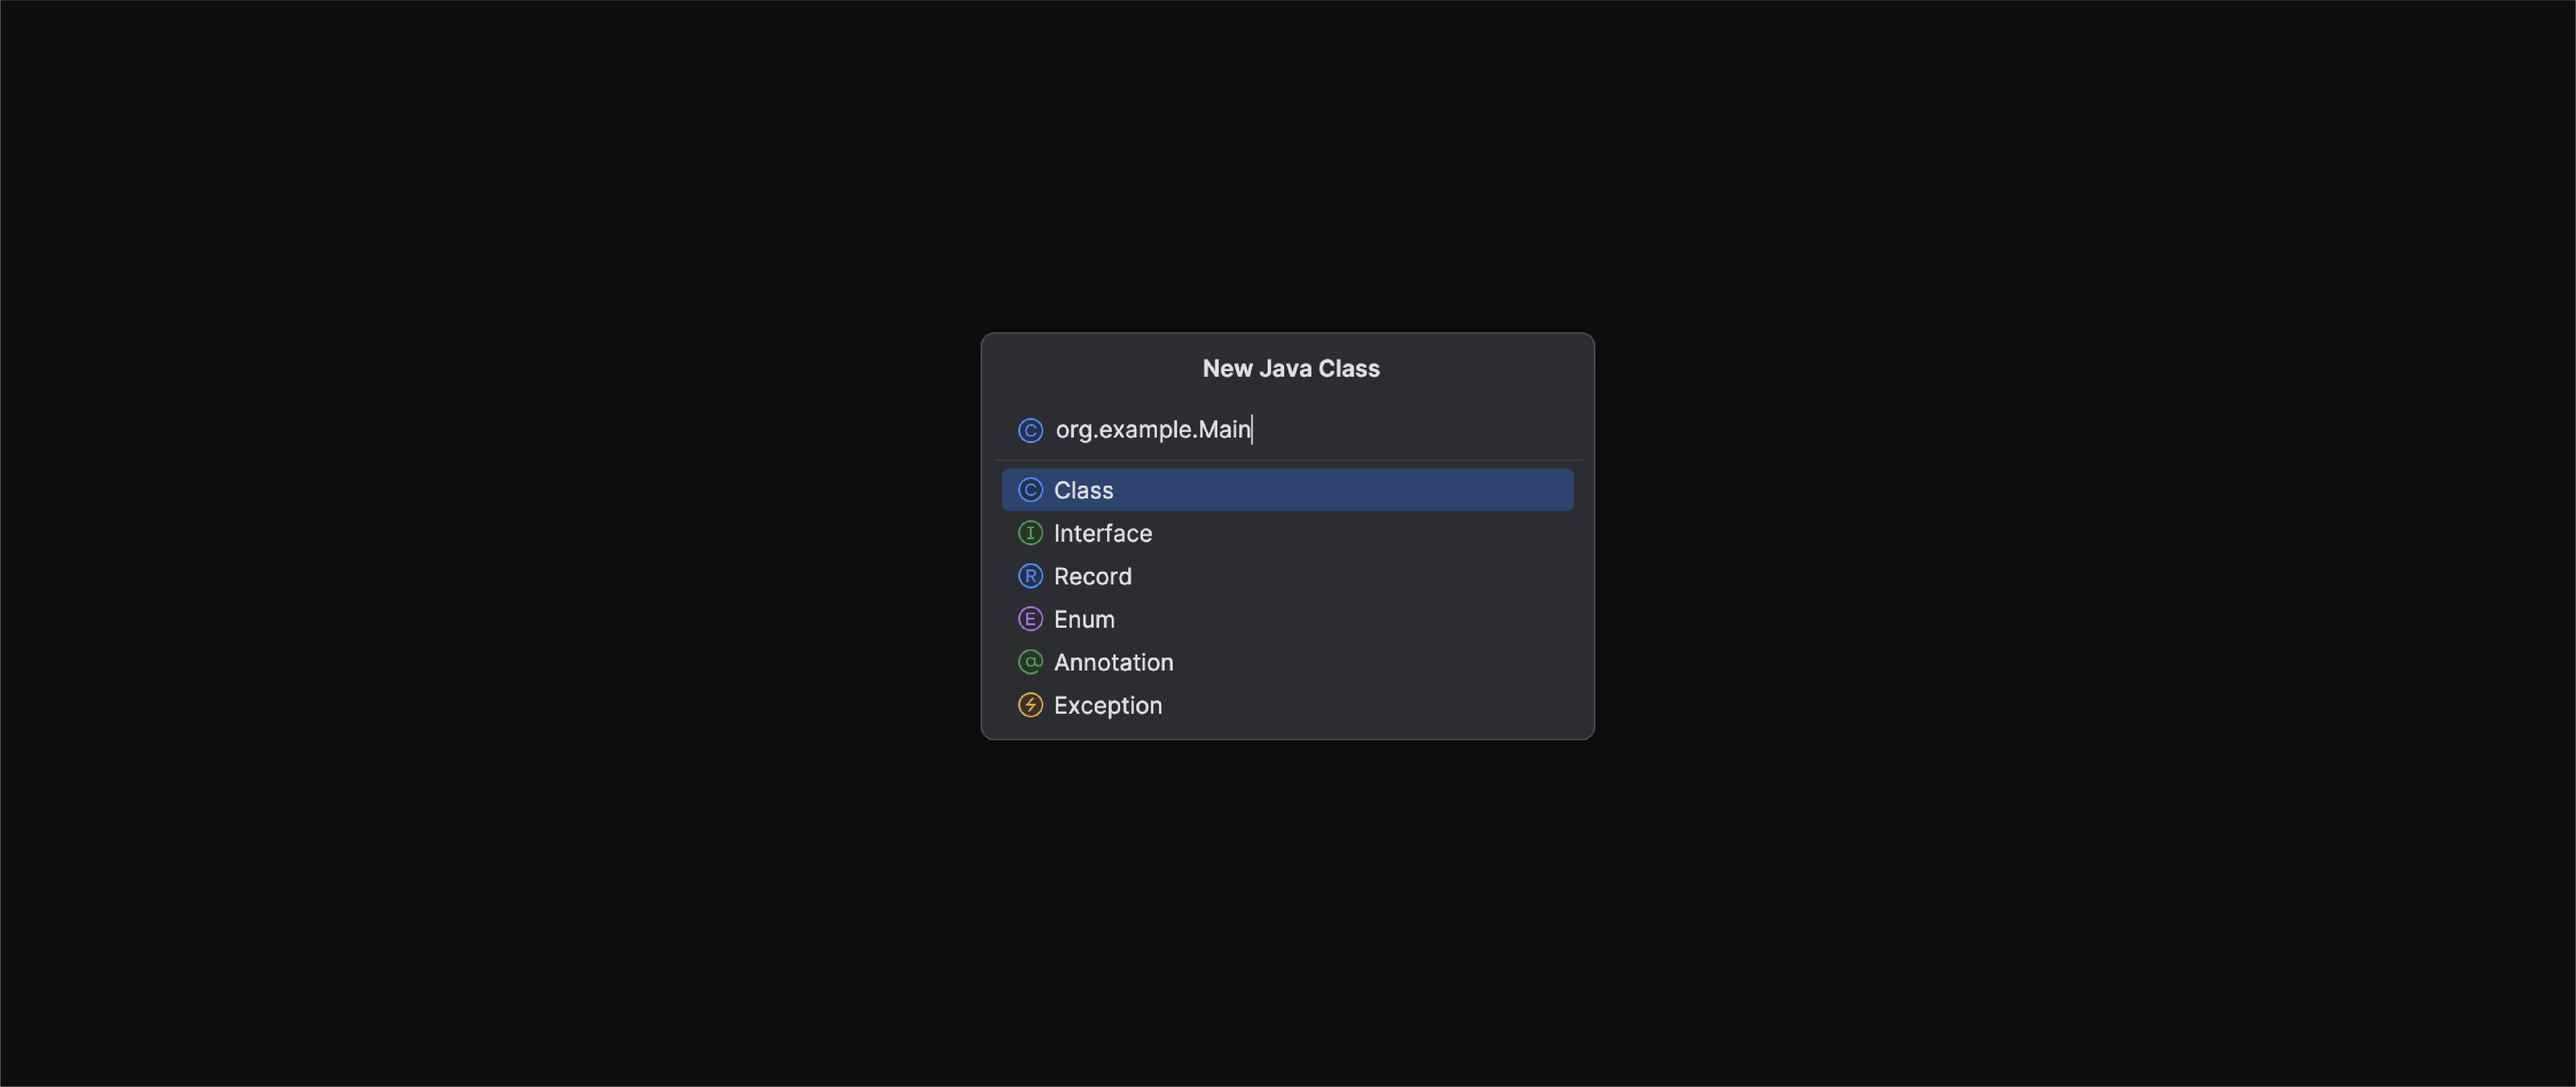
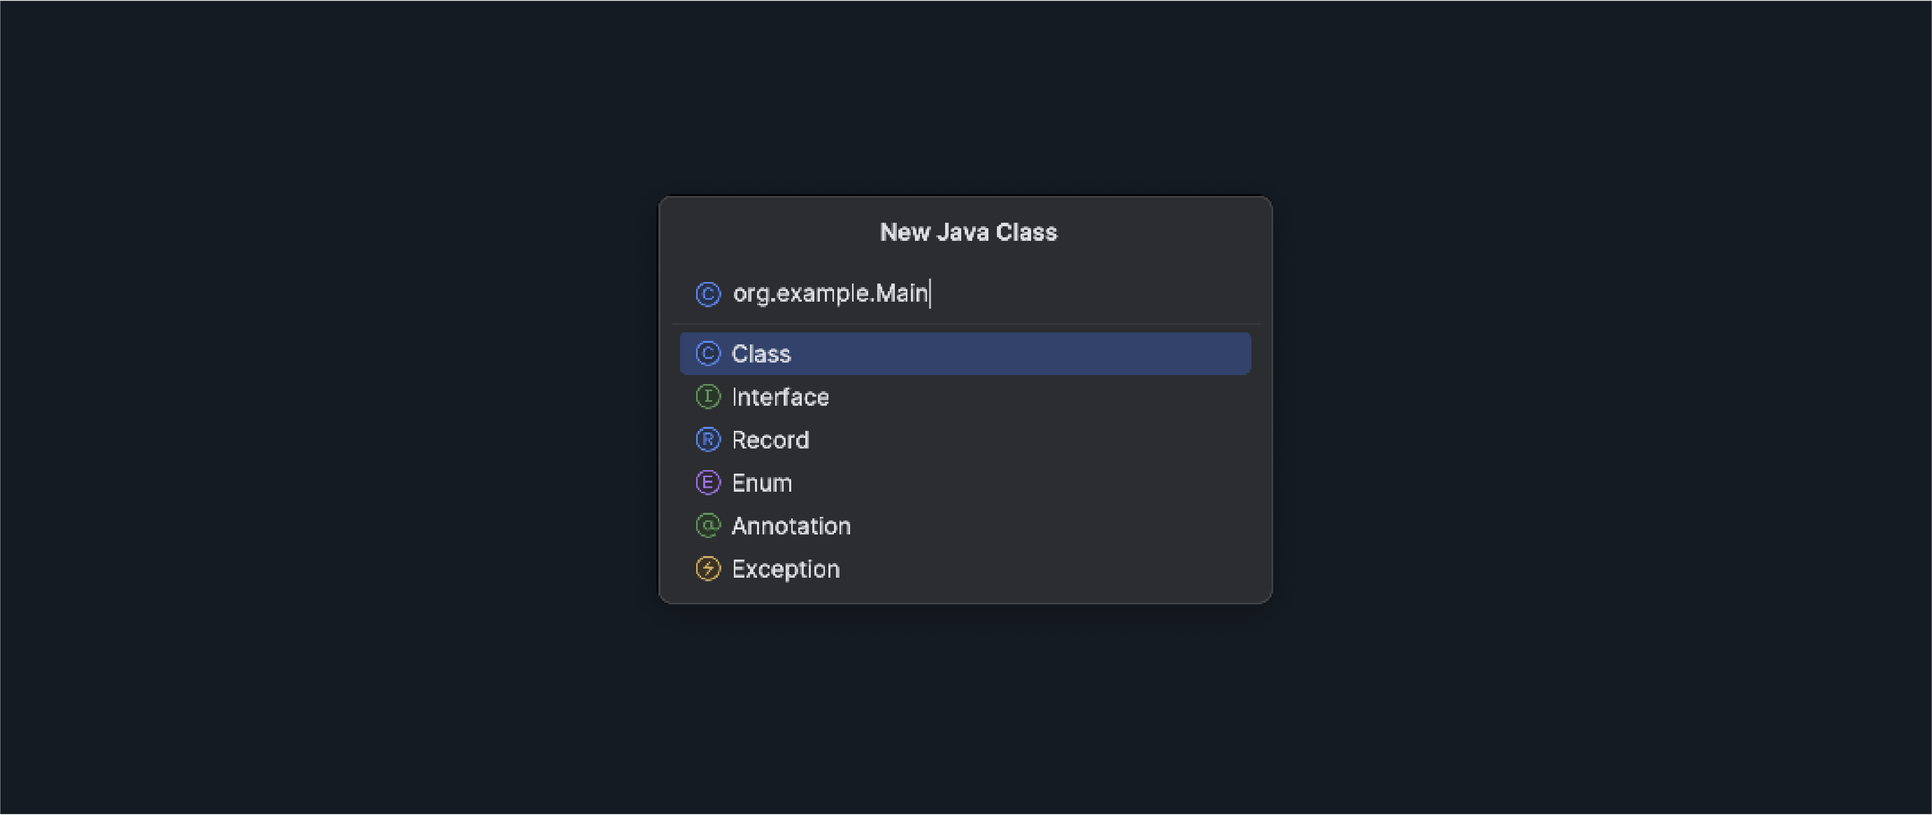
fix: links

Changed region(s): [[0.3437, 0.2159, 0.6561, 0.7403], [0.9997, 0.0, 1.0, 1.0], [0.0, 0.987, 0.0312, 1.0]]

diff --git a/canvas-landing-pages/fallback.md b/canvas-landing-pages/fallback.md
@@ -22,4 +22,4 @@ This module focuses on Java's primitive and basic object data types. Participant
 
 ## References
 
-📖 [Reference Materials](./references/README.md)
+📖 [Reference Materials](../references/README.md)

diff --git a/canvas-landing-pages/jcd.md b/canvas-landing-pages/jcd.md
@@ -22,4 +22,4 @@ This module focuses on Java's primitive and basic object data types. Participant
 
 ## References
 
-📖 [Reference Materials](./references/README.md)
+📖 [Reference Materials](../references/README.md)

diff --git a/canvas-landing-pages/jsc.md b/canvas-landing-pages/jsc.md
@@ -22,4 +22,4 @@ This module focuses on Java's primitive and basic object data types. Participant
 
 ## References
 
-📖 [Reference Materials](./references/README.md)
+📖 [Reference Materials](../references/README.md)
